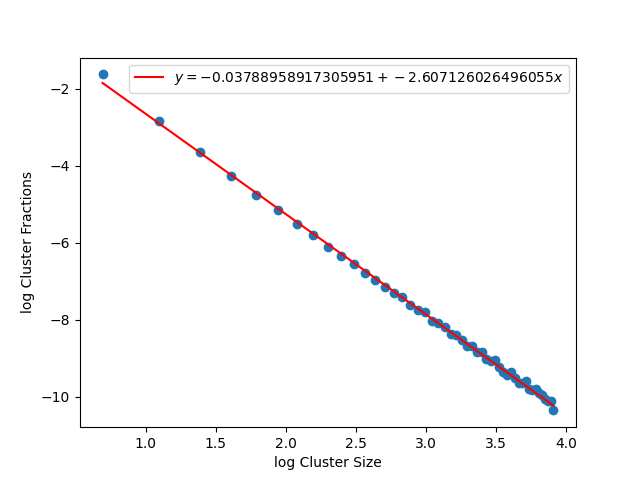
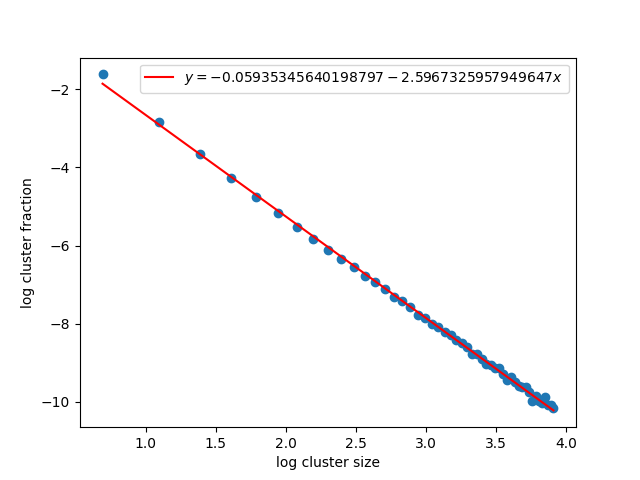
Update plot

diff --git a/clusterfractions.py b/clusterfractions.py
@@ -15,13 +15,14 @@ log_sizes = [math.log(i) for i in sizes]
 log_count_fracs = [math.log(i) for i in count_fracs]
 
 plt.scatter(log_sizes, log_count_fracs, zorder=1)
-plt.xlabel('log Cluster Size')
-plt.ylabel('log Cluster Fractions')
+plt.xlabel('log cluster size')
+plt.ylabel('log cluster fraction')
 
 intercept, slope = np.polynomial.polynomial.Polynomial.fit(log_sizes, log_count_fracs, 1).convert().coef
 x_cont = np.linspace(math.log(2), math.log(50), 2)
 y_fitted = intercept + slope * x_cont
-plt.plot(x_cont, y_fitted, zorder=2, color='red', label=f'$y={intercept}+{slope}x$')
+equation = f'$y={intercept}+{slope}x$' if slope >= 0 else f'$y={intercept}-{-slope}x$'
+plt.plot(x_cont, y_fitted, zorder=2, color='red', label=equation)
 plt.legend()
 
 plt.show()
